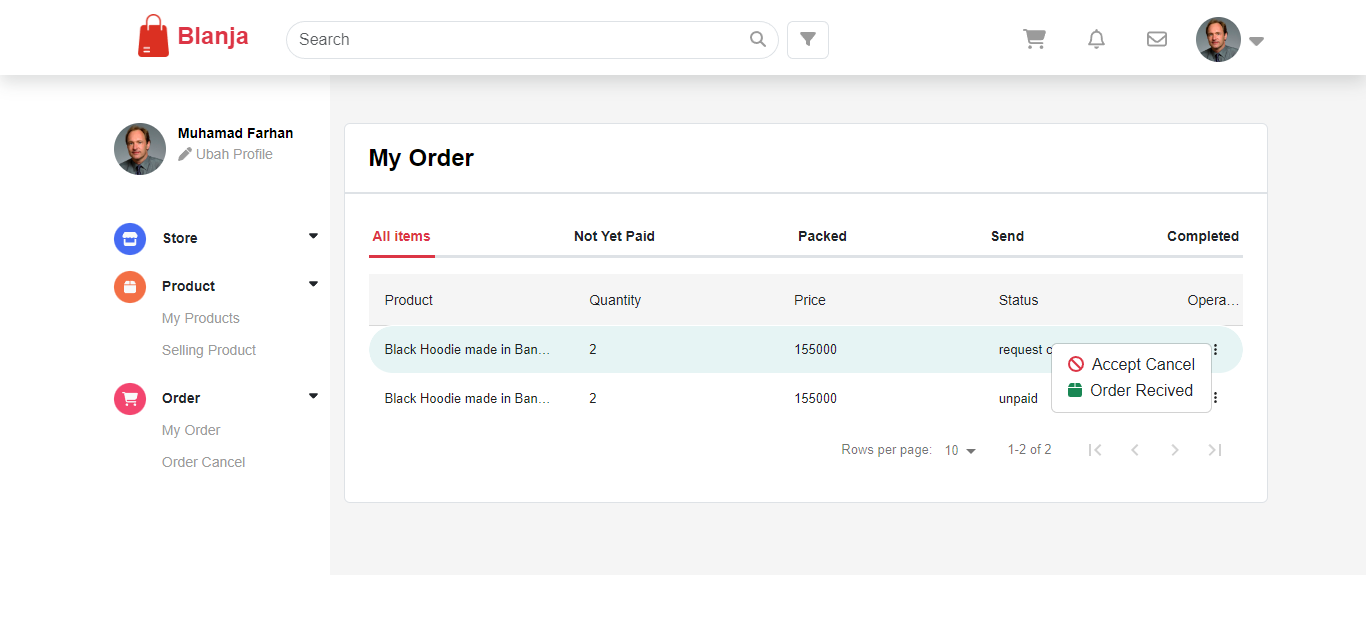
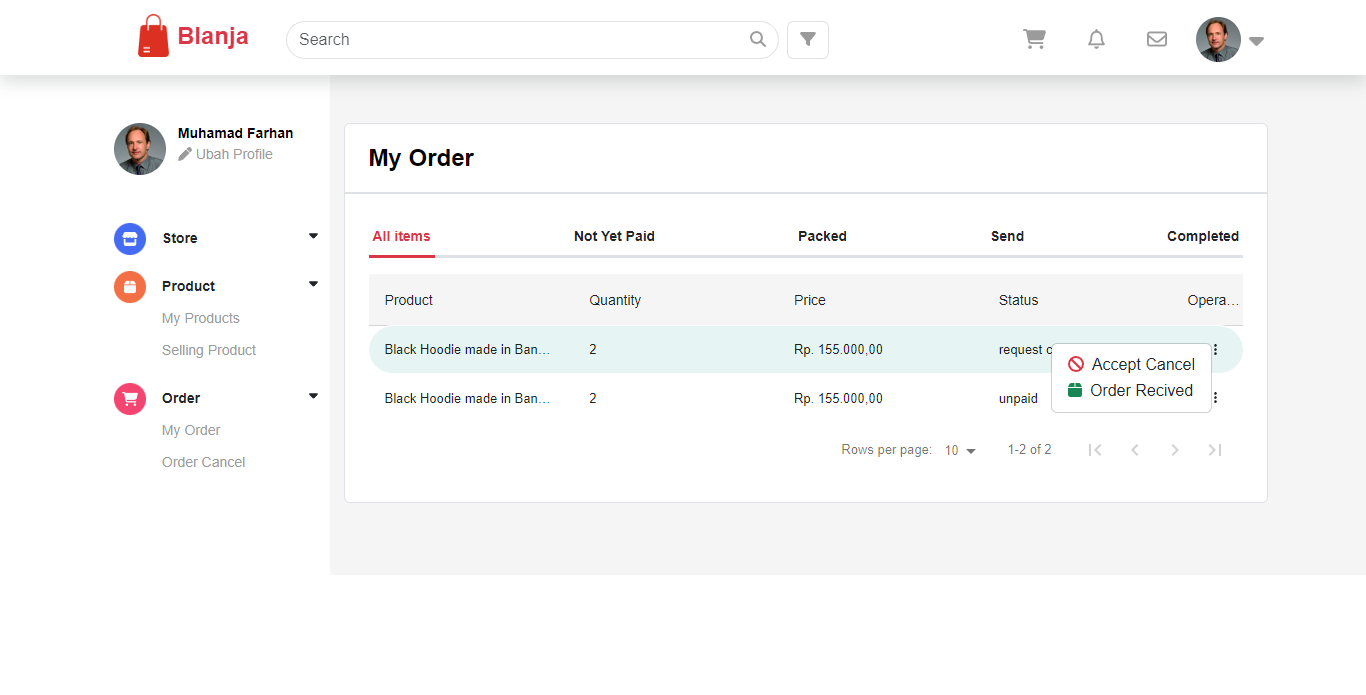
edit rupiah format

diff --git a/src/pages/dashboard/seller/order/MyOrder/MyOrder.jsx b/src/pages/dashboard/seller/order/MyOrder/MyOrder.jsx
@@ -8,6 +8,7 @@ import { useGetOrderByIdSellerQuery, useUpdateOrderByIdMutation } from '../../..
 import { Dashboard } from '../../../../../components/Layout/Dashboard';
 import { DashboardCardContent } from '../../../../../components/Dashboard/DashboardCardContent';
 import Swal from 'sweetalert2';
+import { convert } from 'rupiah-format'
 
 const SellerOrder = () => {
   const [status, setStatus] = useState('');
@@ -77,7 +78,7 @@ const SellerOrder = () => {
     },
     {
       name: 'Price',
-      selector: (row) => row.price,
+      selector: (row) => convert(row.price),
       sortable: true,
     },
     {
